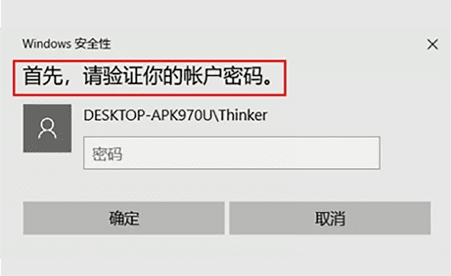
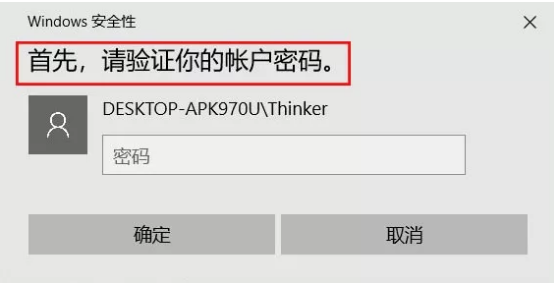
QA&footer

diff --git a/whoareu/support.html b/whoareu/support.html
@@ -205,17 +205,18 @@
                 <div class="support_a_text_left">
                   <div>我们以Windows 10为例</div>
                   <div>第一步：进入电脑的“设置”菜单，在设置选项中选择“账户”，然后从左边列表中选择 “登录选项”</div>
-                  <div class="support_a_text_img"><img src="./images/support/pic-p6-Q13-1.png"></div>
+                  <div class="support_a_text_img"><img src="./images/support/pic-p6-Q13-1.jpg"></div>
                   <div>第三步：弹出验证账户密码，输入刚刚设置的或原本账户密码然后确定。</div>
                   <div class="support_a_text_img"><img src="./images/support/pic-p6-Q13-3.png"></div>
                 </div>
                 <div class="support_a_text_right">
                   <div>第二步：在右边有创建账户密码及PIN密码，请先设置账户密码，然后在PIN下方点击“添加”按钮。（若原本账户就有密码可直接点击添加PIN码）</div>
-                  <div class="support_a_text_img"><img src="./images/support/pic-p6-Q13-2.png"></div>
+                  <div class="support_a_text_img"><img src="./images/support/pic-p6-Q13-2.jpg"></div>
                   <div>第四步：弹出验证账户密码，输入刚刚设置的或原本账户密码然后确定。</div>
                   <div class="support_a_text_img"><img src="./images/support/pic-p6-Q13-4.png"></div>
                 </div>
               </div>
+                <div style="text-align:right;">设置完成之后锁屏重新登陆系统时，就可以输入PIN码了。</div>
             </div>
           </div>
         </div>
@@ -254,19 +255,19 @@
         <div class="support_q_item">         
           <div class="support_q">
             <div class="support_q_left">Q15</div>
-            <div class="support_q_right">Windows 8.1系统中的的Windows hello指纹录入无法成功录入指纹怎么办？</div>
+            <div class="support_q_right">Windows 8.1系统中的Windows hello指纹录入无法成功录入指纹怎么办？</div>
           </div>
           <div class="support_a">
-            <div class="support_a_text">由于 Windows 8.1的系统的Windows hello指纹录入次数必须是固定的8次指纹采集，和我们现有的指纹外设产品录入次数有冲突（我们的产品只需要4次），所以导致指纹数据无法正常录入存储。为防止出现这种情况出现，推荐用户使用我们提供的【互啊佑PC指纹外设应用套件】录入指纹，这样才能保证完好的用户体验。</div>
+            <div class="support_a_text">由于 Windows 8.1的系统的Windows hello指纹录入次数必须是固定的8次指纹采集，和我们现有的指纹外设产品录入次数有冲突（如我们的S系列产品只需要4次，但N系列需要14次），所以导致指纹数据无法正常录入存储。为防止出现这种情况出现，推荐用户使用我们提供的【互啊佑PC指纹外设应用套件】录入指纹，这样才能保证完好的用户体验。</div>
           </div>
         </div>
         <div class="support_q_item">         
           <div class="support_q">
             <div class="support_q_left">Q16</div>
-            <div class="support_q_right">更换新的PC指纹外设产品后，注册时出现“该账户下已存在该枚指纹”的情况怎么办？</div>
+            <div class="support_q_right">注册时出现“该账户下已存在该枚指纹”的情况怎么办？</div>
           </div>
           <div class="support_a">
-            <div class="support_a_text">在电脑的【账户】—【登录选项】中的Windows hello中，用另外一枚没有注册过的手指注册指纹，注册完成之后选择删除之前的数据，就可以重新录入指纹使用了。</div>
+            <div class="support_a_text">说明在鼠标里已经存在了这枚指纹，如果希望继续录入该枚指纹可在客户端进行设备重置，抹除鼠标上的所有指纹，可以进行重新录入。</div>
           </div>
         </div>
         <div class="support_q_item">         
@@ -275,7 +276,7 @@
             <div class="support_q_right">在Windows hello里面设置的指纹跟互啊佑软件设置的是同步的吗？</div>
           </div>
           <div class="support_a">
-            <div class="support_a_text">在Windows hello里面设置的指纹可以同步在【互啊佑PC指纹外设应用套件】里面，但是在【互啊佑PC指纹外设应用套件】里面设置的指纹不能同步在Windows hello里面。</div>
+            <div class="support_a_text">【互啊佑PC指纹外设应用套件】在每次启动的时候会自动同步Windows hello里已经设置了的指纹数据，可使用该指纹进行软件登录，但不能对Windows Hello中设置的指纹进行指纹管理。相反，在软件中设置的指纹数据可同步到Windows Hello中，该指纹数据可使用windows hello或者软件进行管理。</div>
           </div>
         </div>
       </div>

diff --git a/whoareu/support_en.html b/whoareu/support_en.html
@@ -159,7 +159,10 @@
                   <div>STEP3: Verify the password in pop-up, enter the password just set or the original account password, and then click Confirm.</div>
                   <div class="support_a_text_img"><img src="./images/support/pic-p6-Q10-3_EN.png"></div>
                   <div>STEP4: The PIN code can be set after the password is verified. You can use a 4-bit PIN code or a longer code.</div>
-                  <div class="support_a_text_img"><img src="./images/support/pic-p6-Q10-4_EN.png"></div>
+                  <div class="support_a_text_img">
+                  	<img src="./images/support/pic-p6-Q10-4_EN.png"><br>
+                  	After setting up, please lock screen and login again , the system will prompt for PIN code.
+                  </div>
                 </div>
               </div>
             </div>
@@ -215,7 +218,6 @@
             <div class="support_a_text">Fingerprints enrolled in Windows Hello are automatically synchronized into【WhoAreYou PC Peripheral Fingerprint Application Tool】when the software starts. The fingerprints enrolled in Windows Hello can be used to login the software, but they can’t be managed in the software. The fingerprints enrolled in【WhoAreYou PC Peripheral Fingerprint Application Tool】are automatically synchronized into Windows hello. These fingerprints can be managed both in software and Windows Hello.</div>
           </div>
         </div>
-		<!-- 添加-->
       </div>
     </div>
     <link href="./css/footer.css" rel="stylesheet">

diff --git a/whoareu/common/footer_en.html b/whoareu/common/footer_en.html
@@ -15,10 +15,11 @@
 				<div class="bottom_sub_item"><a href='support_en.html'>SUPPORT</a></div>
 				<div class="bottom_sub_item"><a href='http://whoareyou.mikecrm.com/nQCF28D'>INQUIRY</a></div>
 			</div>
+			<div class="foot_blank"></div>
 			<div class="bottom_item">
-				<div class="bottom_sub_item">Service Hotline：</div>
+				<div class="bottom_sub_item bottom_sub_item_en">Service Hotline：</div>
 				<div class="bottom_sub_item">+86-400-960-7980</div>
-				<div class="bottom_sub_item">E-Mail：</div>
+				<div class="bottom_sub_item bottom_sub_item_en">E-Mail：</div>
 				<div class="bottom_sub_item">service@whoareyou.live</div>
 			</div>
 		</div>

diff --git a/whoareu/certify_en.html b/whoareu/certify_en.html
@@ -84,8 +84,8 @@
       comJs.initNav('certify')
     }, 10)
     var videoSrc = ['https://www.youtube.com/embed/-qQGUTUlInk', 
-    				'https://youtu.be/embed/fm8jOSjbKiU', 
-    				'https://youtu.be/embed/5pMGB7LfmtI']
+    				'https://www.youtube.com/embed/fm8jOSjbKiU', 
+    				'https://www.youtube.com/embed/5pMGB7LfmtI']
     $('.certify_video_btn').each(function(index, el) {
       $(this).click(function() {
         $('.video_lg').css('display', 'block')

diff --git a/whoareu/common/footer.html b/whoareu/common/footer.html
@@ -13,6 +13,7 @@
 			<div class="bottom_sub_item"><a href='support.html'>技术支持</a></div>
 			<div class="bottom_sub_item"><a href='http://whoareyou.mikecrm.com/ha6nYlc'>商务合作</a></div>
 		</div>
+		<div class="foot_blank"></div>
 		<div class="bottom_item">
 			<div class="bottom_sub_item1">客服电话：</div>
 			<div class="bottom_sub_item1">+86-400-960-7980</div>

diff --git a/whoareu/mouseS_en.html b/whoareu/mouseS_en.html
@@ -101,7 +101,7 @@
       comJs.initNav('mouse')
     }, 10)
   }
-  var videoSrc = ['https://www.youtube.com/embed/Asv6QVC_C0c',
+  var videoSrc = ['https://www.youtube.com/embed/KFNz0AGnOP4',
 				  'https://www.youtube.com/embed/Url1o42Dqy0',
 				  'https://www.youtube.com/embed/Asv6QVC_C0c',
 				  'https://www.youtube.com/embed/DEbPWG31G3s']

diff --git a/whoareu/css/footer.css b/whoareu/css/footer.css
@@ -1,3 +1,8 @@
+.foot_blank{
+	height: 85px;
+	border: 1px solid #fff;
+	margin-right: 60px;
+}
 .logo_bottom{
   width: 195px;
   height: 63px;
@@ -69,6 +74,9 @@
 .bottom_sub_item{
   margin-bottom: 17px;
   line-height: 1;
+}
+.bottom_sub_item_en{
+	margin-bottom:5px;
 }
 .bottom_sub_item a {
   display: flex;
